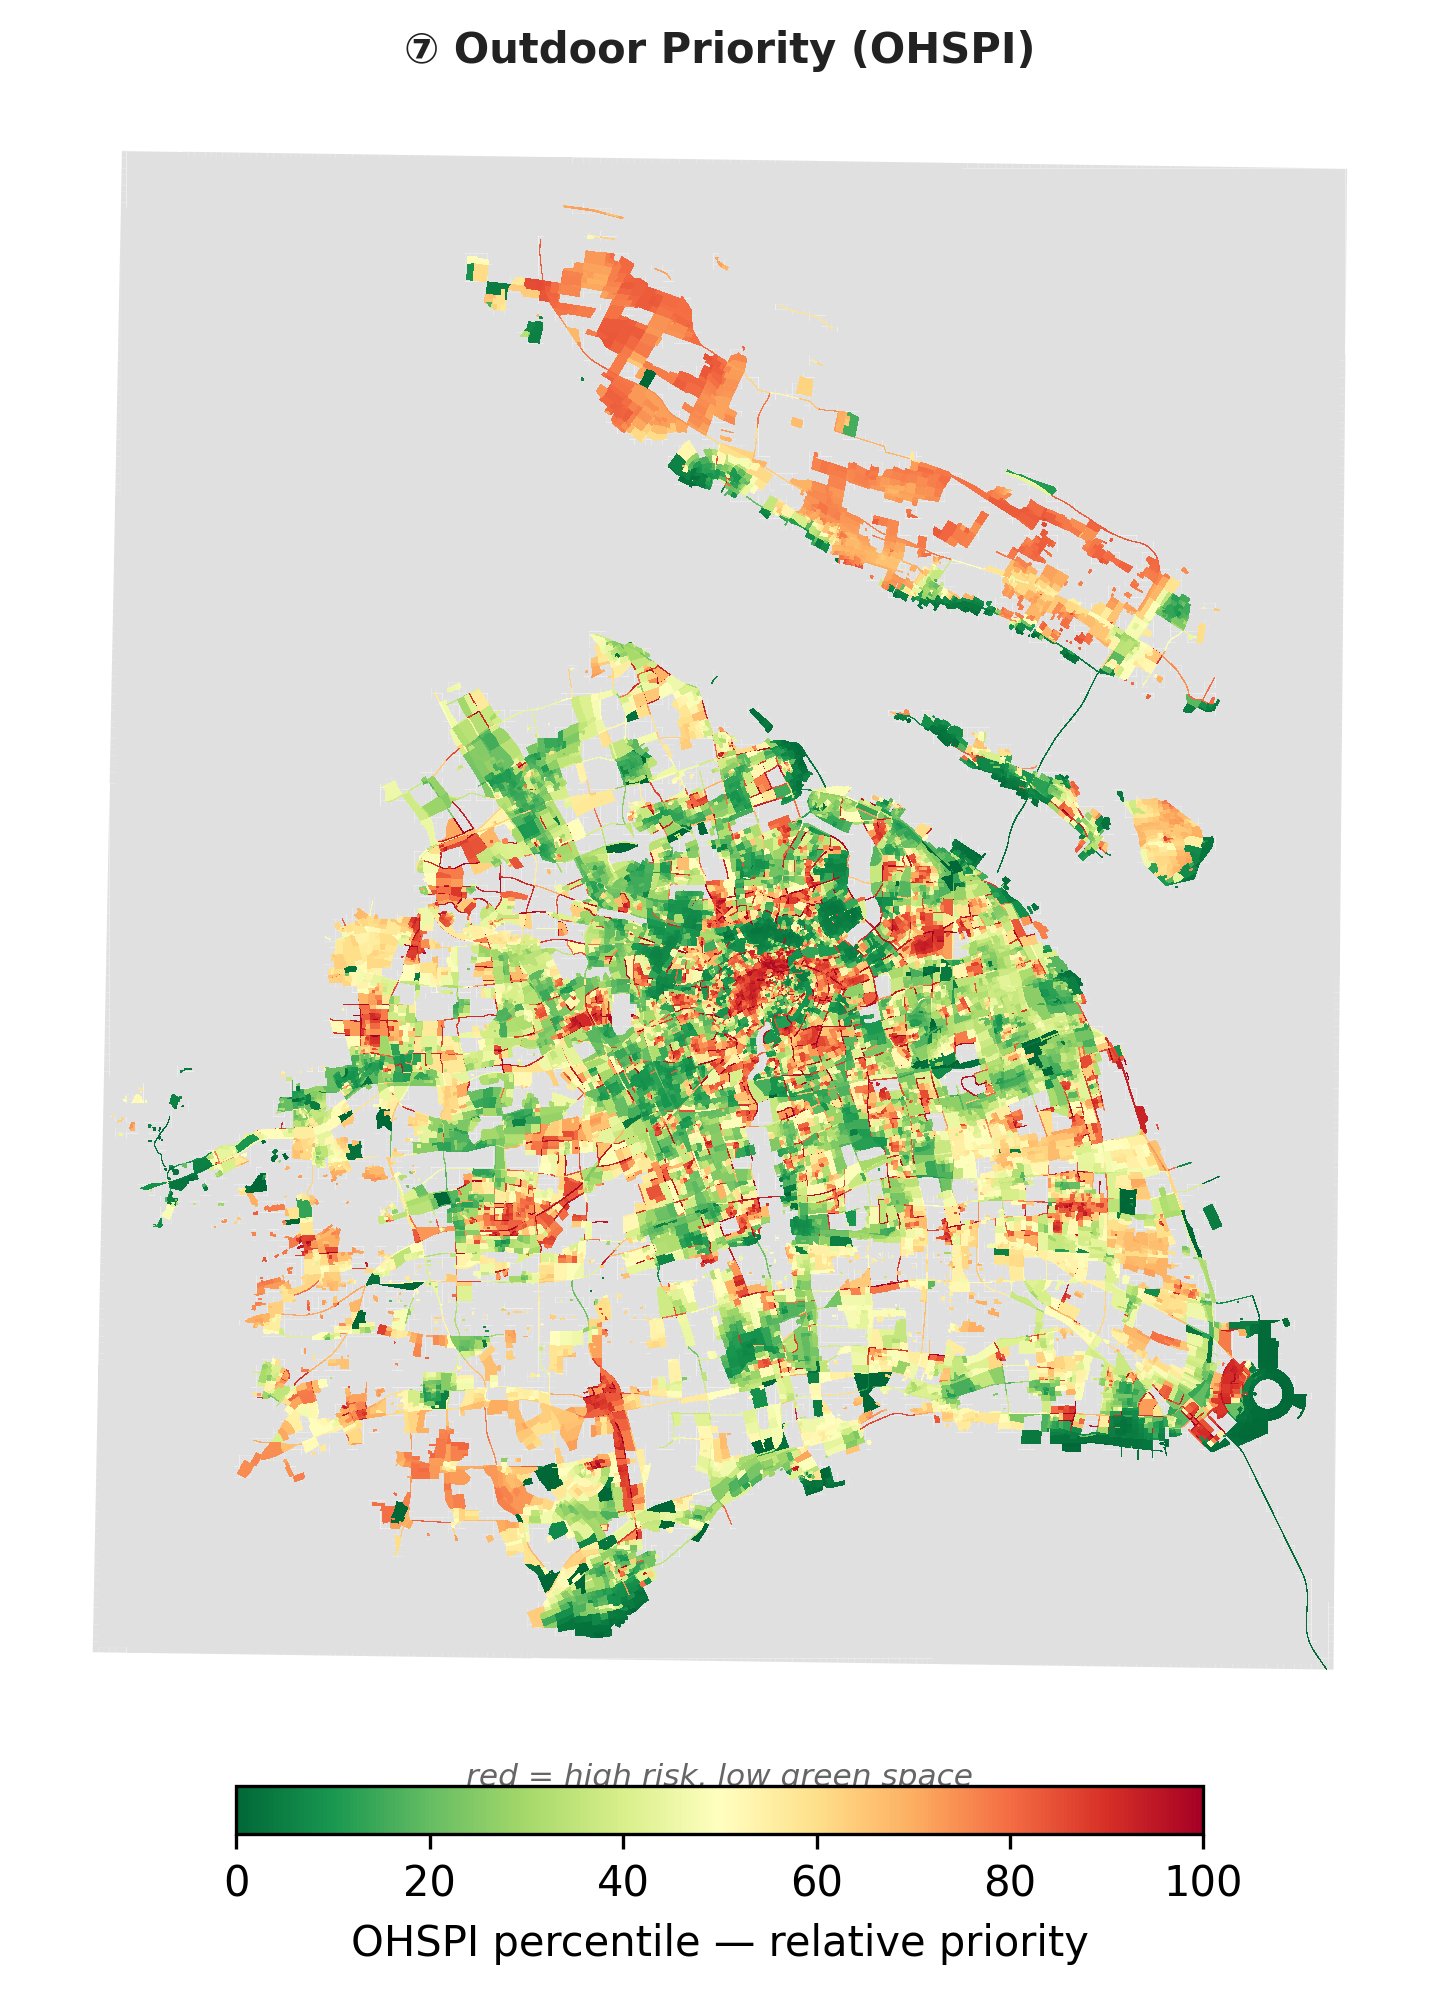
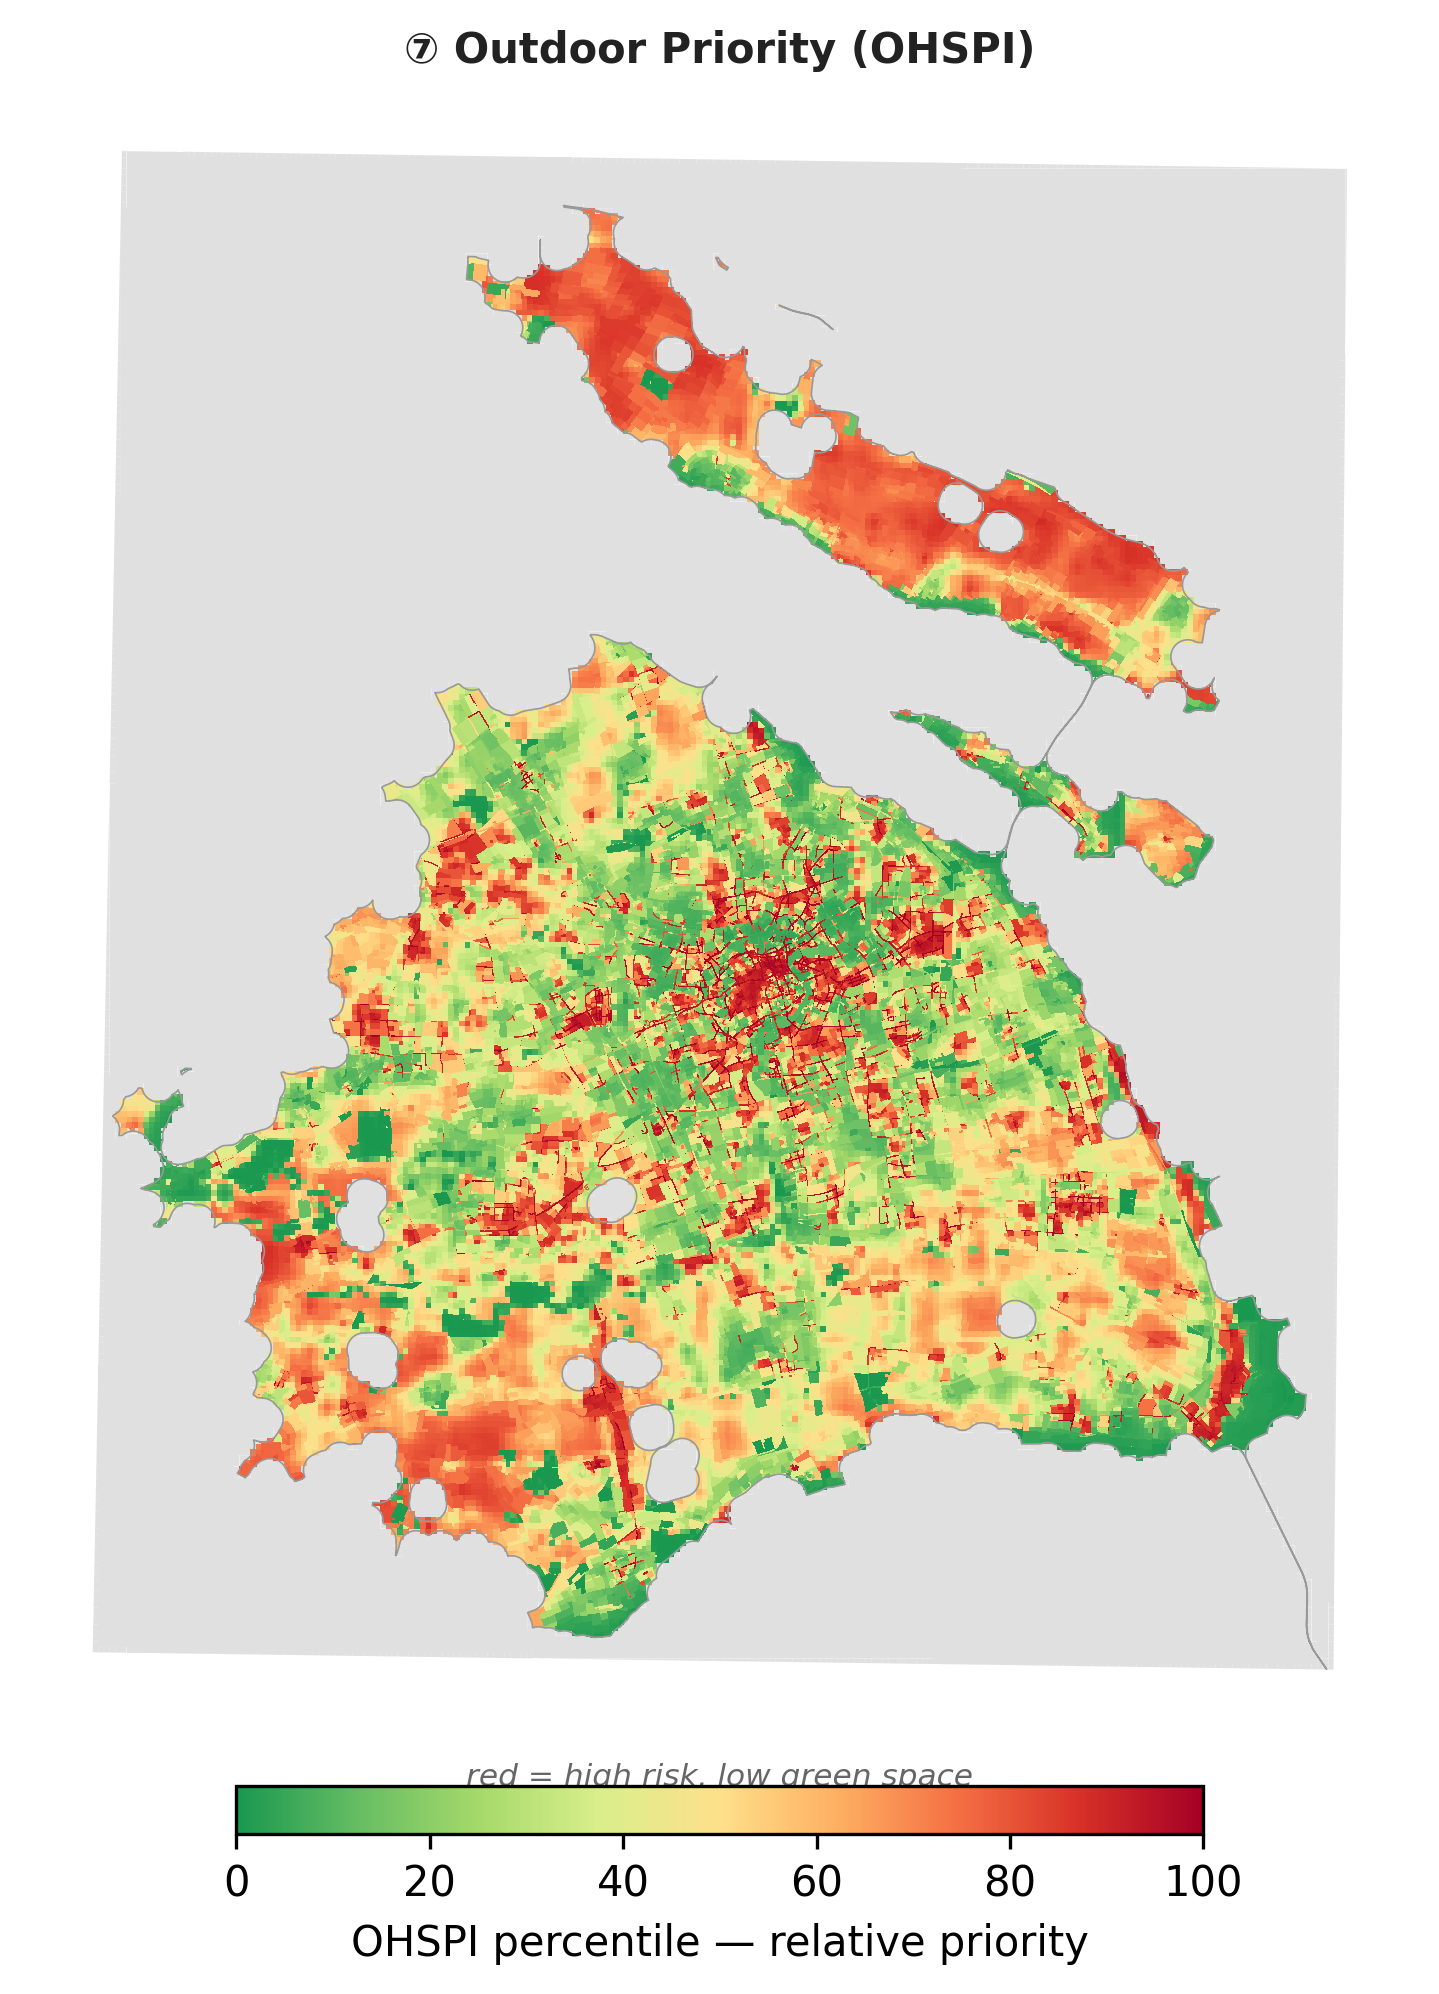
WIP: full-coverage priority maps — land silhouette fill, no-cream ramp
[gstack-context]
Decisions: land mask from road-block morphological closing (buffer 1500m, union, erode) since shanghai_boundary.gpkg is just the study rectangle; colour all road+grid blocks inside silhouette by percentile; custom green-red ramp without pale RdYlGn centre
Tried: municipal_boundary gpkg as clip mask — it is the bbox, coloured the sea
Remaining: none
Skill: /office-hours (presentation asset work)
[/gstack-context]

diff --git a/scripts/10_infographic.py b/scripts/10_infographic.py
@@ -28,7 +28,9 @@ from matplotlib.gridspec import GridSpec
 from matplotlib.patches import FancyBboxPatch
 
 sys.path.insert(0, str(Path(__file__).resolve().parent))
-from config import BLOCKS_FILE, MAPS_DIR
+from matplotlib.colors import LinearSegmentedColormap
+
+from config import BLOCKS_FILE, MAPS_DIR, PROCESSED_DIR
 
 warnings.filterwarnings("ignore")
 
@@ -49,6 +51,32 @@ C = {
     "gray":          "#666666",
     "dark":          "#222222",
 }
+
+# Green→red ramp without the pale cream centre of RdYlGn — mid-ranked blocks
+# stay visibly coloured instead of reading as blank white.
+PRIORITY_RAMP = LinearSegmentedColormap.from_list(
+    "priority",
+    ["#1a9850", "#66bd63", "#a6d96a", "#d9ef8b",
+     "#fee08b", "#fdae61", "#f46d43", "#d73027", "#a50026"],
+)
+
+_SILHOUETTE_CACHE = {}
+
+
+def land_silhouette(gdf_all):
+    """Land outline built from road blocks via morphological closing.
+
+    shanghai_boundary.gpkg is only the rectangular study frame, so the road
+    tessellation is the best available land mask: buffer out 1.5 km, union,
+    buffer back — internal holes seal shut, the sea stays outside.
+    """
+    if "sil" not in _SILHOUETTE_CACHE:
+        roads = gdf_all[gdf_all["block_type"] == "road"]
+        closed = (roads.geometry.simplify(50)
+                  .buffer(1500).union_all().buffer(-1500))
+        _SILHOUETTE_CACHE["sil"] = closed
+    return _SILHOUETTE_CACHE["sil"]
+
 
 # Map panel specs: (column, cmap, vmin, vmax_mode, title, subtitle)
 # vmax_mode: float = fixed vmax; "p97" = 97th percentile; "p95" = 95th percentile
@@ -92,12 +120,12 @@ PANEL_SPECS = {
     # concentrated (p25–p75 ≈ 0.040–0.046), so a linear scale renders one
     # orange blob; ranking spreads the full green→red ramp evenly.
     "ohspi": (
-        "ohspi", "RdYlGn_r", "rank", None,
+        "ohspi", PRIORITY_RAMP, "rank", None,
         "⑦ Outdoor Priority (OHSPI)", "red = high risk, low green space",
         "OHSPI percentile — relative priority",
     ),
     "ihspi": (
-        "ihspi", "RdYlGn_r", "rank", None,
+        "ihspi", PRIORITY_RAMP, "rank", None,
         "⑧ Indoor Priority (IHSPI)", "red = high risk, few indoor cooling facilities",
         "IHSPI percentile — relative priority",
     ),
@@ -130,8 +158,15 @@ def resolve_vmax(gdf, column, vmax_spec):
 
 def render_map(ax, gdf, gdf_all, key, legend=True):
     col, cmap, vmin, vmax_spec, title, subtitle, leg_label = PANEL_SPECS[key]
+    draw_boundary = False
     if vmin == "rank":
-        gdf = gdf.copy()
+        # Full-coverage variant: colour EVERY block (road + grid) whose
+        # representative point falls inside the land silhouette, so the
+        # land area has no gray holes; the sea keeps the gray frame.
+        draw_boundary = True
+        sil = land_silhouette(gdf_all)
+        inside = gdf_all.representative_point().within(sil)
+        gdf = gdf_all.loc[inside, [col, "geometry"]].copy()
         gdf["_rank"] = gdf[col].rank(pct=True) * 100
         col = "_rank"
         vmin, vmax = 0.0, 100.0
@@ -153,6 +188,9 @@ def render_map(ax, gdf, gdf_all, key, legend=True):
             "label": leg_label,
         } if legend else {},
     )
+    if draw_boundary:
+        gpd.GeoSeries([land_silhouette(gdf_all)], crs=gdf_all.crs).boundary.plot(
+            ax=ax, color="#999999", linewidth=0.4)
     ax.set_axis_off()
     ax.set_title(title, fontsize=10, fontweight="bold",
                  color=C["dark"], pad=3, loc="center")
